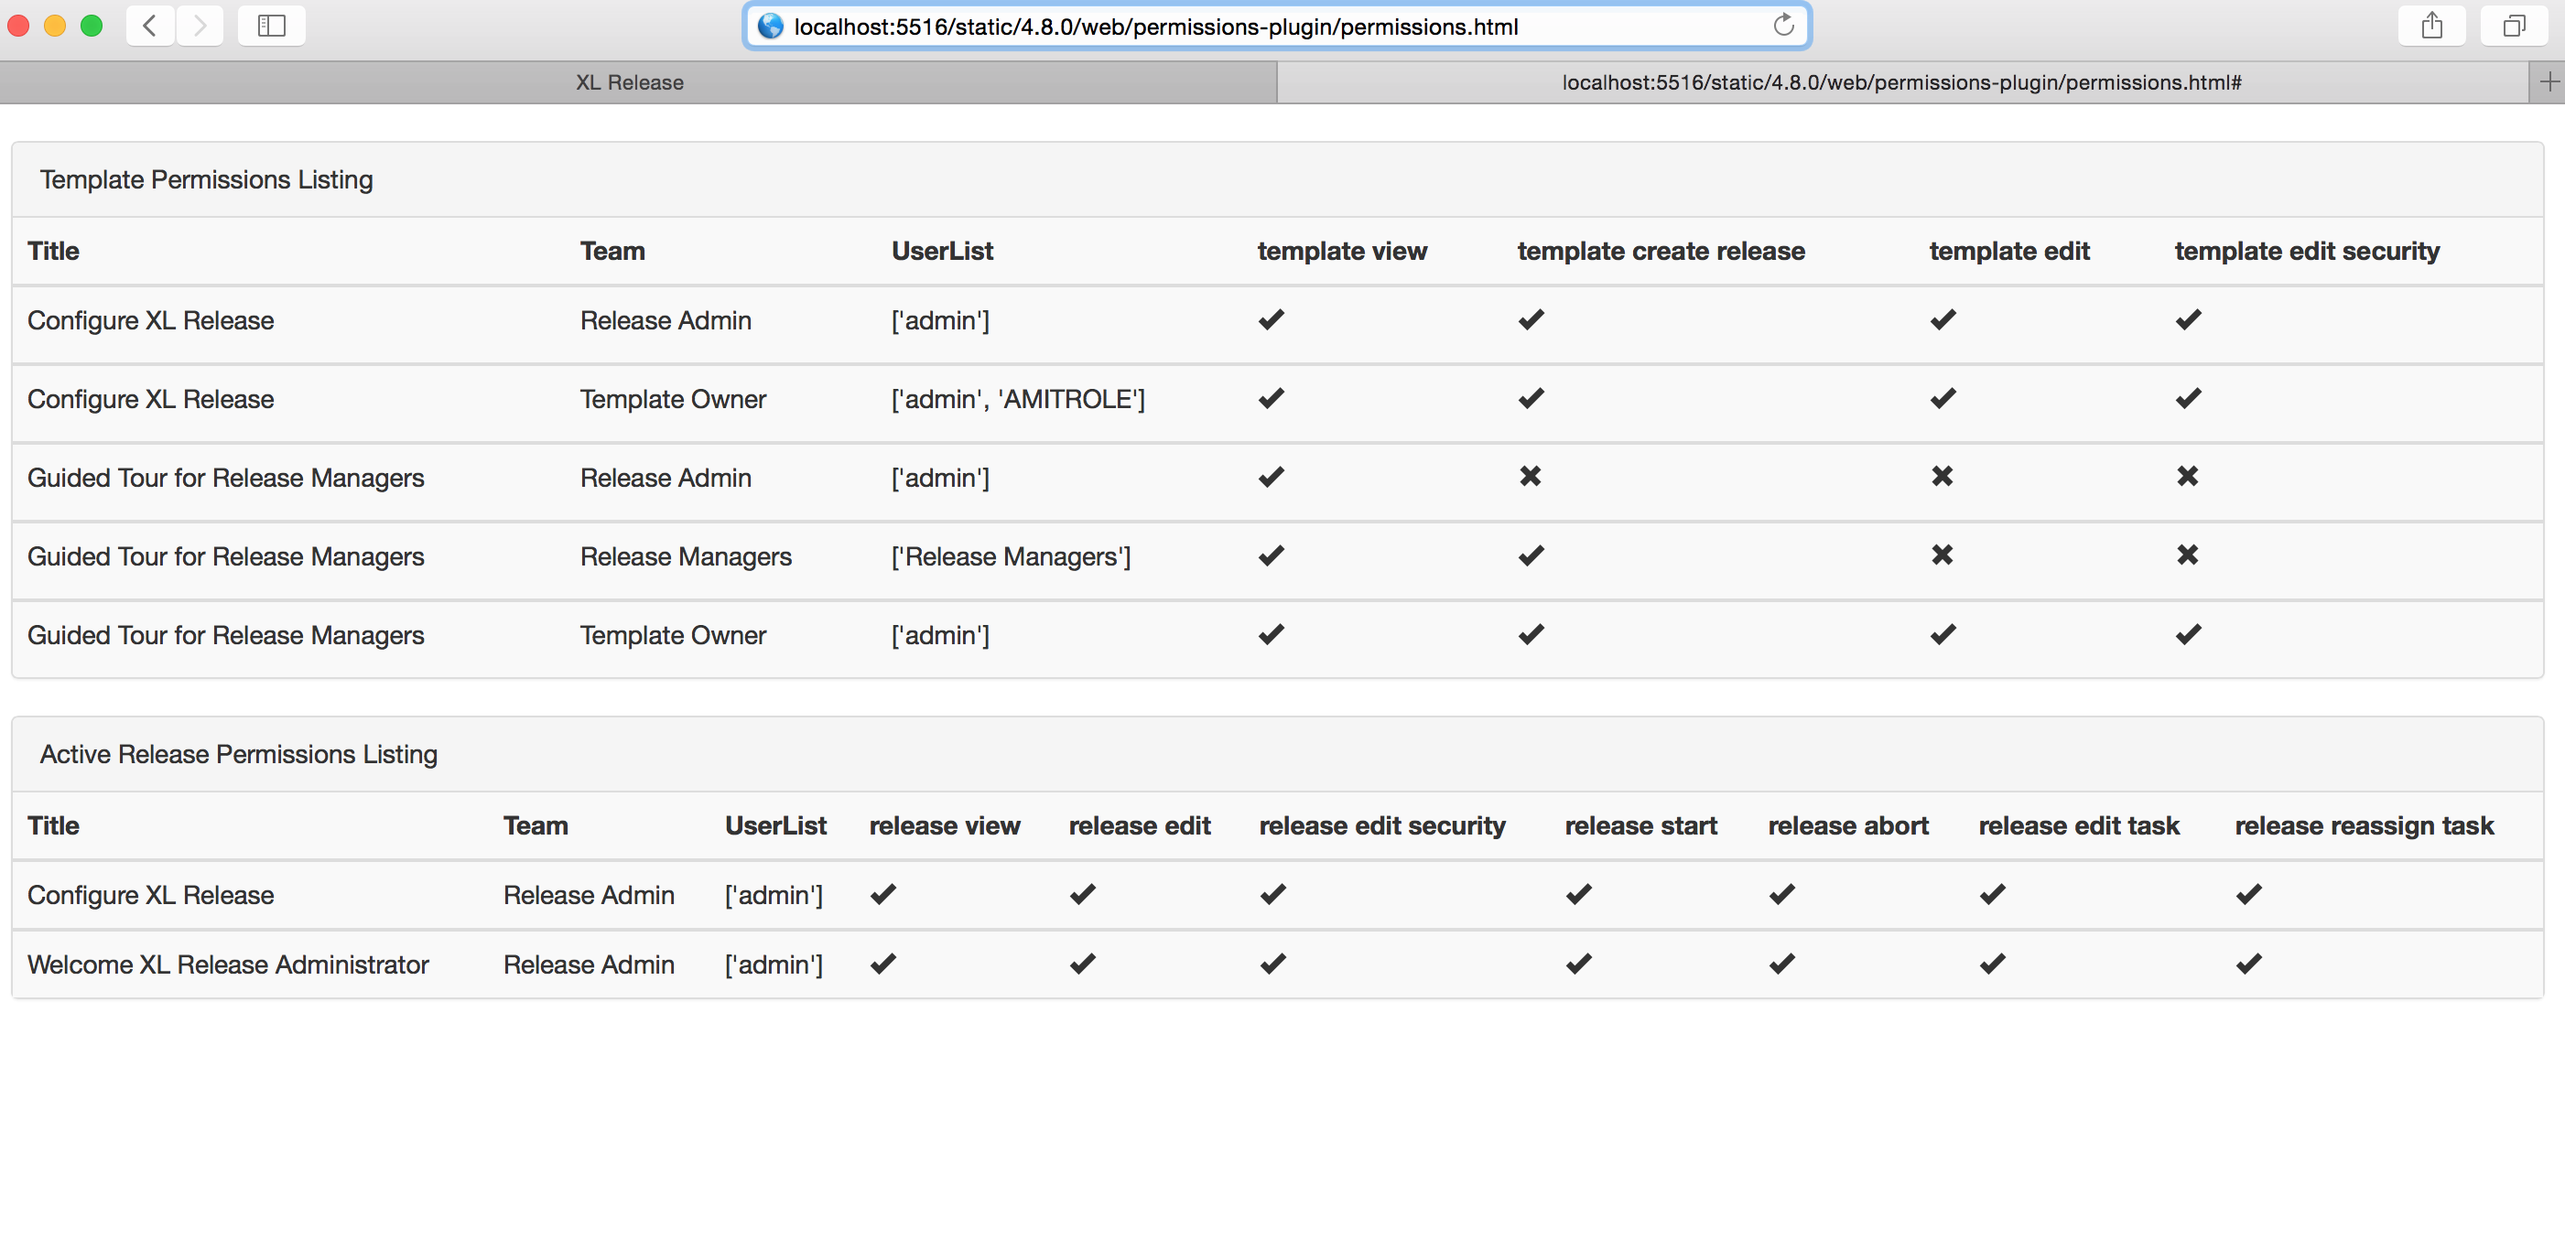
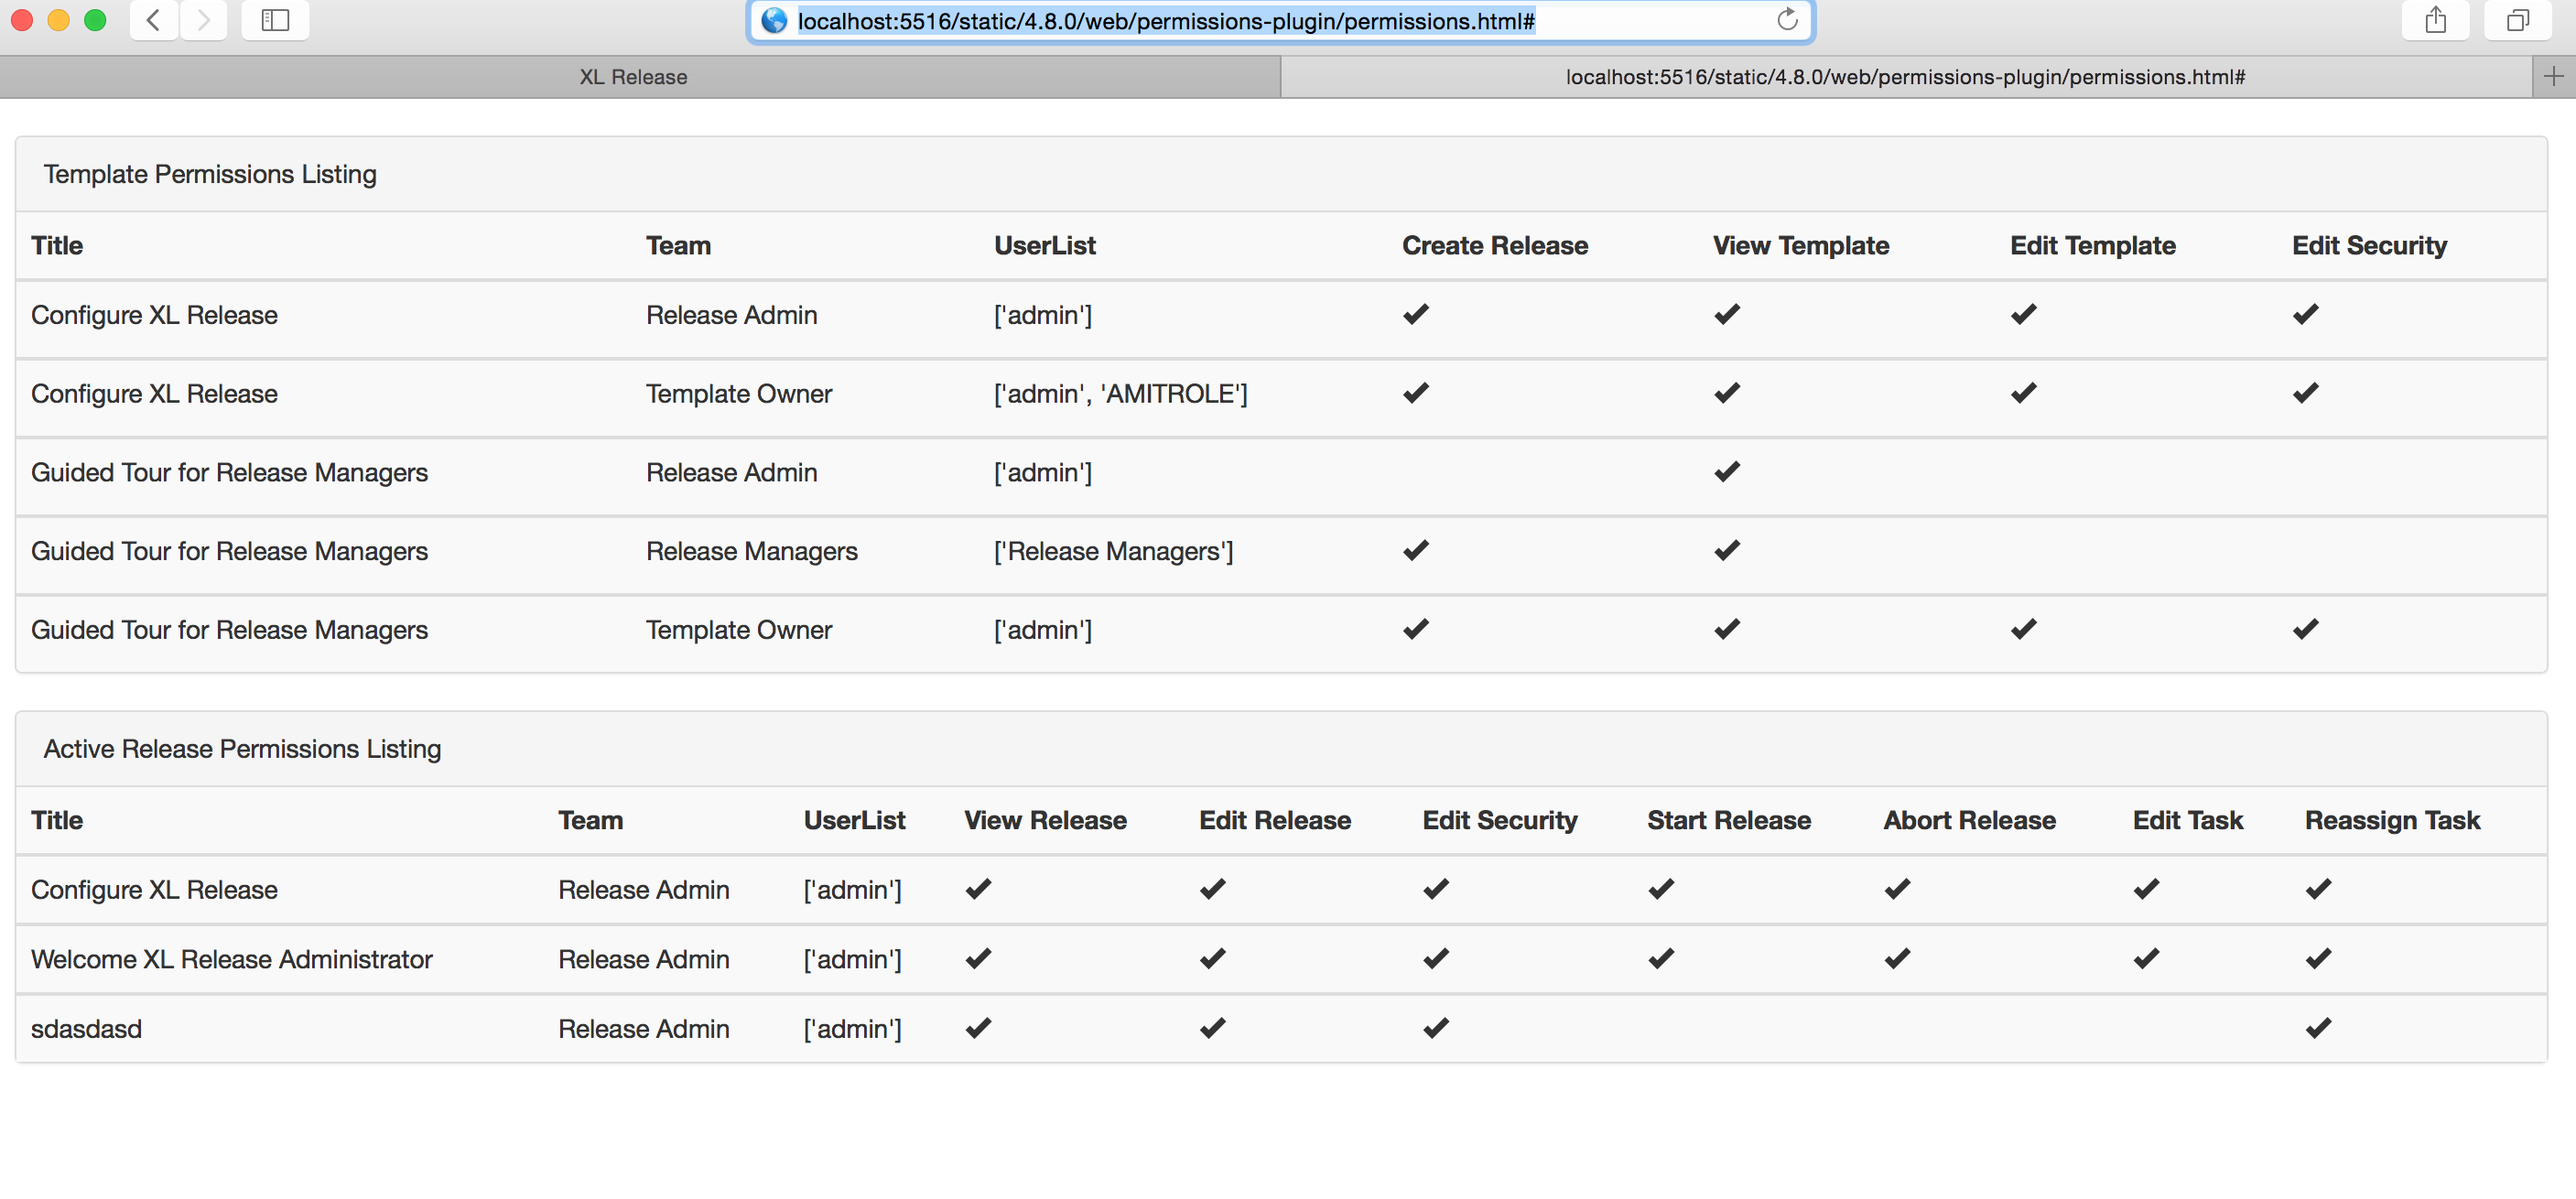
more ui changes

diff --git a/src/main/web/permissions-plugin/permissions.html b/src/main/web/permissions-plugin/permissions.html
@@ -20,14 +20,14 @@
 					<th>Title</th>
 					<th>Team</th>
 					<th>UserList</th>
-					<th ng-repeat="items in globalperms">{{items.replace("#"," ").replace("_"," ")}}</th>
+					<th ng-repeat="items in globalpermNames">{{items.replace("#"," ").replace("_"," ")}}</th>
 				</tr>
 				<tbody ng-repeat="(key,value) in resultCis">
 					<tr ng-if="key.split('::')[0] == 'TEMPLATE'">
 						<td>{{key.split('::')[1]}}</td>
 						<td>{{key.split('::')[2]}}</td>
 						<td>{{key.split('::')[3]}}</td>
-						<td ng-repeat="item in globalperms"><label><i ng-class="value.indexOf(item) > -1 ? 'glyphicon glyphicon-ok' : 'glyphicon glyphicon-remove' "></i></label></td>
+						<td ng-repeat="item in globalperms"><label><i ng-class="value.indexOf(item) > -1 ? 'glyphicon glyphicon-ok' : '' "></i></label></td>
 					</tr>
 				</tbody>
 			</table>
@@ -42,14 +42,14 @@
 					<th>Title</th>
 					<th>Team</th>
 					<th>UserList</th>
-					<th ng-repeat="items in allperms">{{items.replace("#"," ").replace("_"," ")}}</th>
+					<th ng-repeat="items in allpermNames">{{items.replace("#"," ").replace("_"," ")}}</th>
 				</tr>
 				<tbody ng-repeat="(key,value) in resultCis">
 					<tr ng-if="key.split('::')[0] != 'TEMPLATE'">
 						<td>{{key.split('::')[1]}}</td>
 						<td>{{key.split('::')[2]}}</td>
 						<td>{{key.split('::')[3]}}</td>
-						<td ng-repeat="item in allperms"><i ng-class="value.indexOf(item) > -1 ? 'glyphicon glyphicon-ok' : 'glyphicon glyphicon-remove' "></i></td>
+						<td ng-repeat="item in allperms"><i ng-class="value.indexOf(item) > -1 ? 'glyphicon glyphicon-ok' : '' "></i></td>
 					</tr>
 				</tbody>
 			</table>

diff --git a/src/main/web/permissions-plugin/main.js b/src/main/web/permissions-plugin/main.js
@@ -15,7 +15,9 @@ angular
 		.controller(
 				'RepoController',
 				function($http, $scope) {
-					$scope.globalperms= [ 'template#view','template#create_release', 'template#edit', 'template#edit_security' ];
+					$scope.globalpermNames = ['Create Release','View Template', 'Edit Template', 'Edit Security'];
+					$scope.globalperms= [ 'template#create_release','template#view', 'template#edit', 'template#edit_security' ];
+					$scope.allpermNames = ['View Release', 'Edit Release', 'Edit Security', 'Start Release', 'Abort Release', 'Edit Task', 'Reassign Task']
 					$scope.allperms = ['release#view', 'release#edit', 'release#edit_security', 'release#start', 'release#abort', 'release#edit_task', 'release#reassign_task'];
 												
 					$scope.loadCis = function() {
